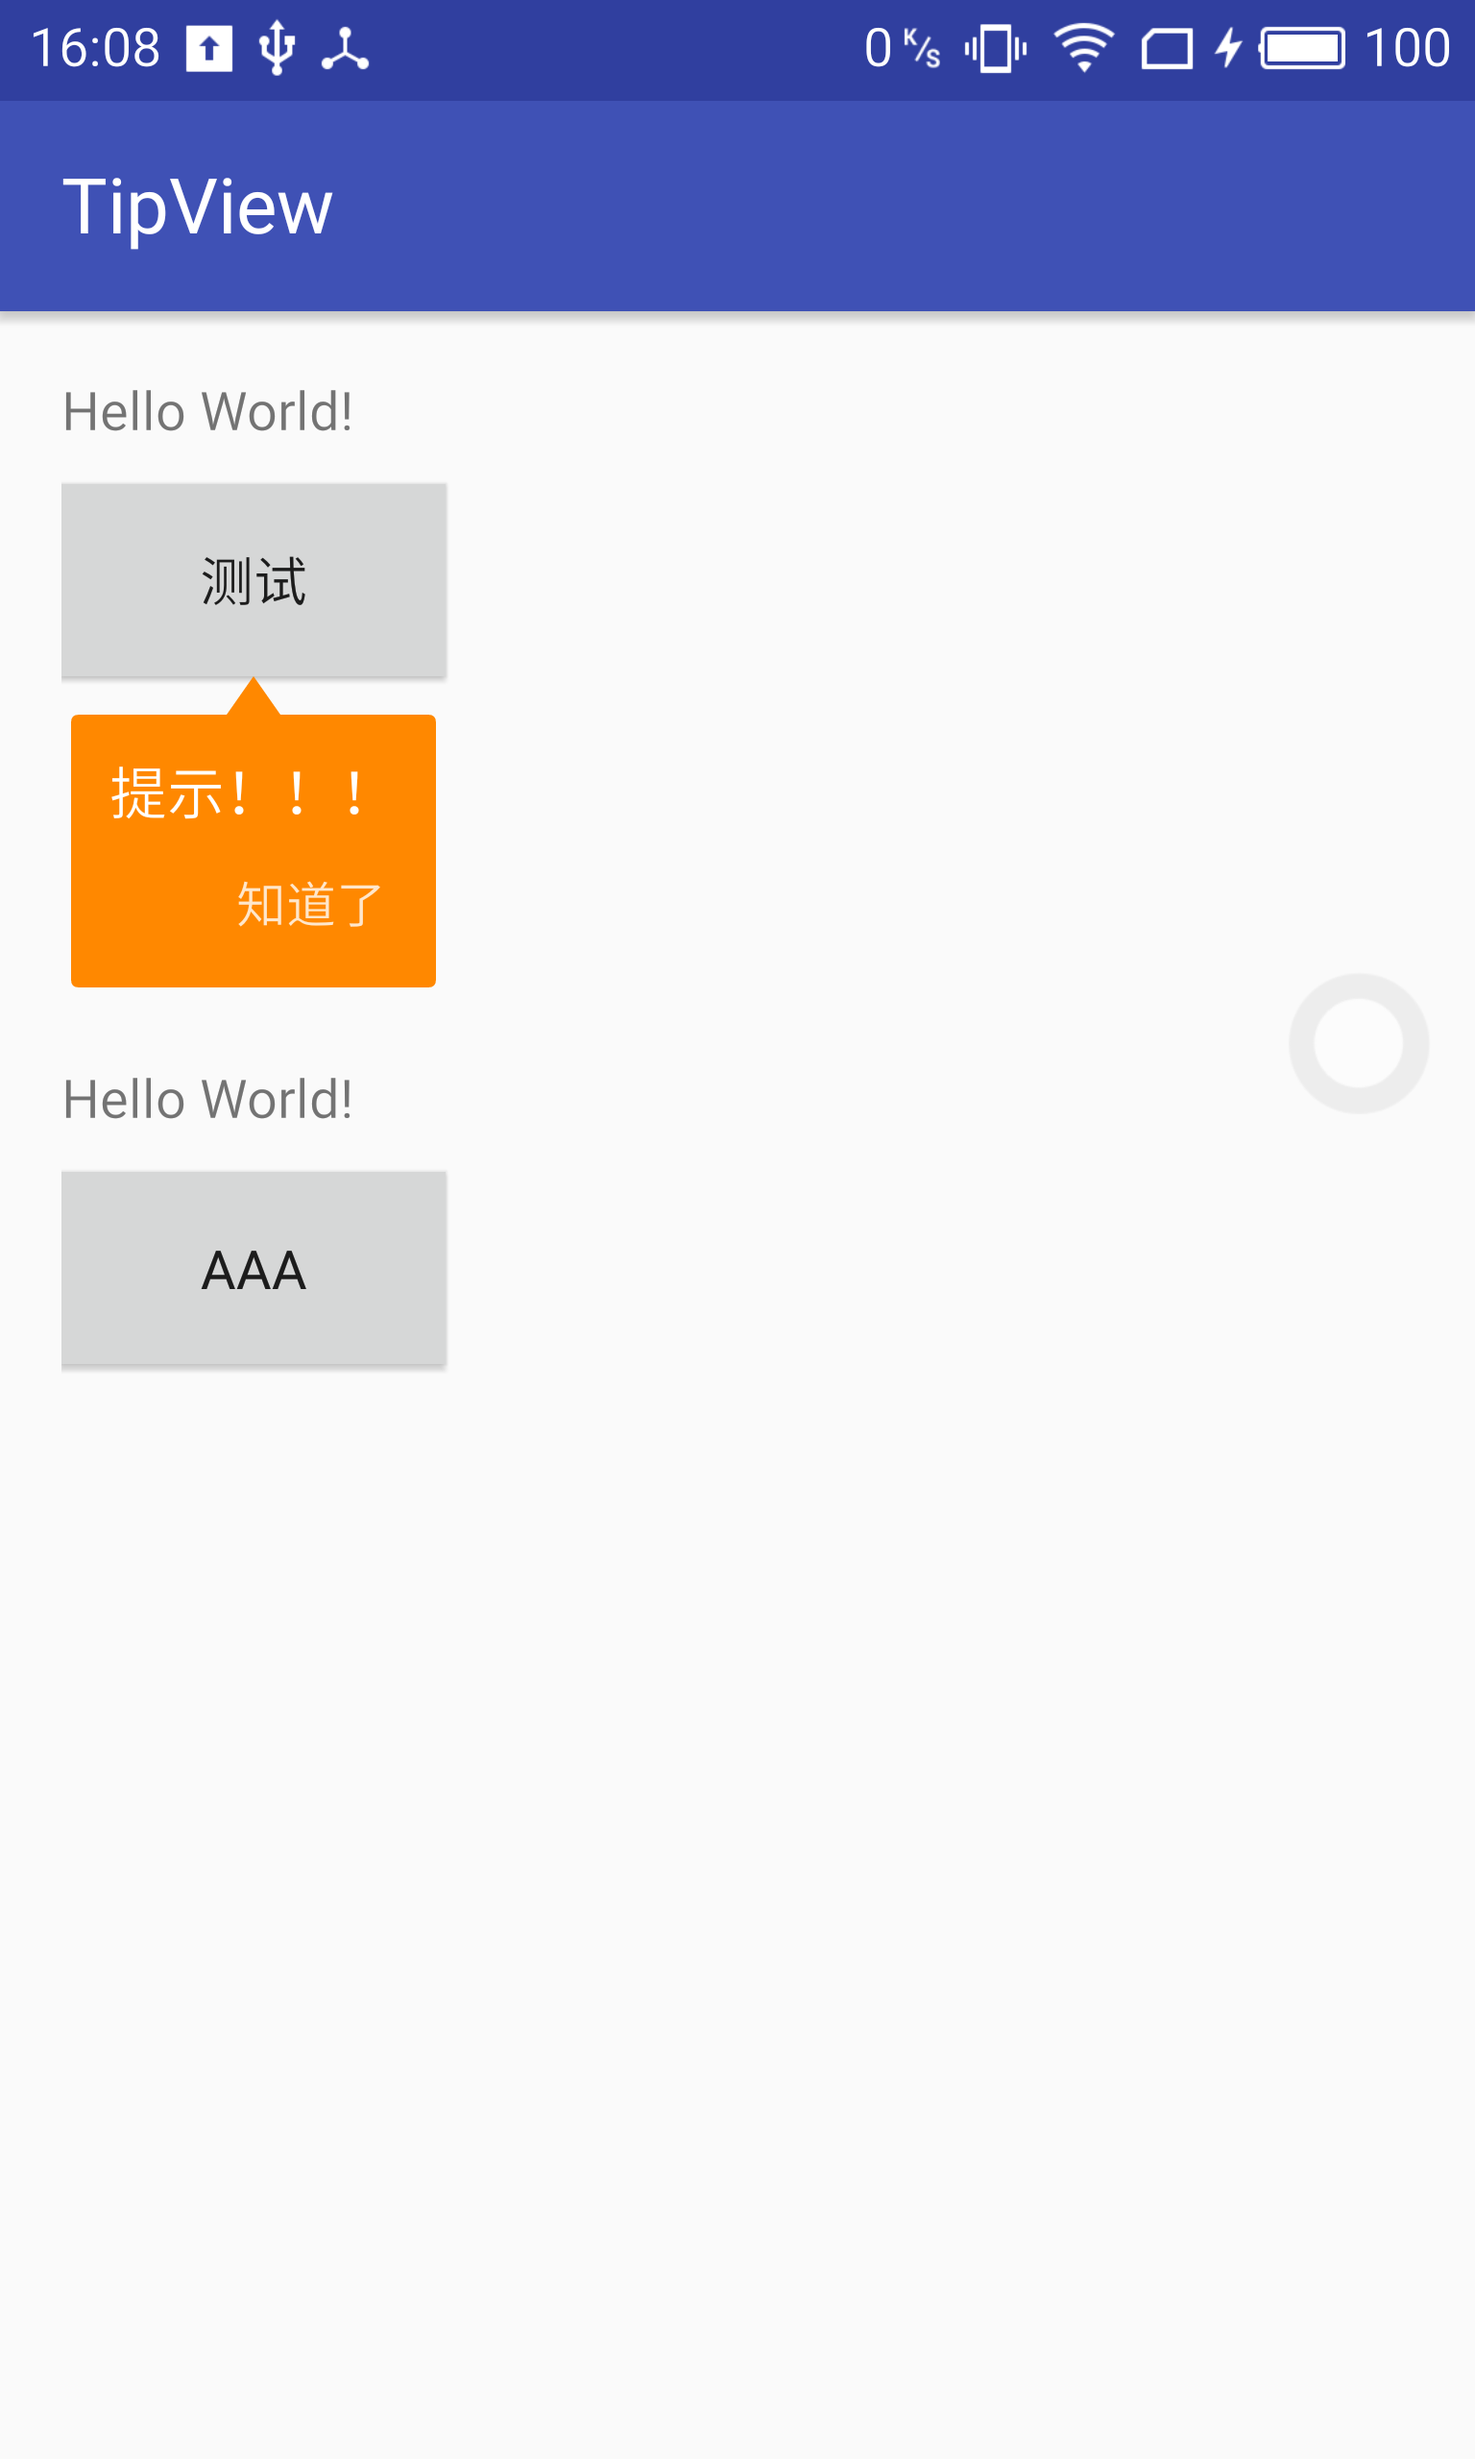
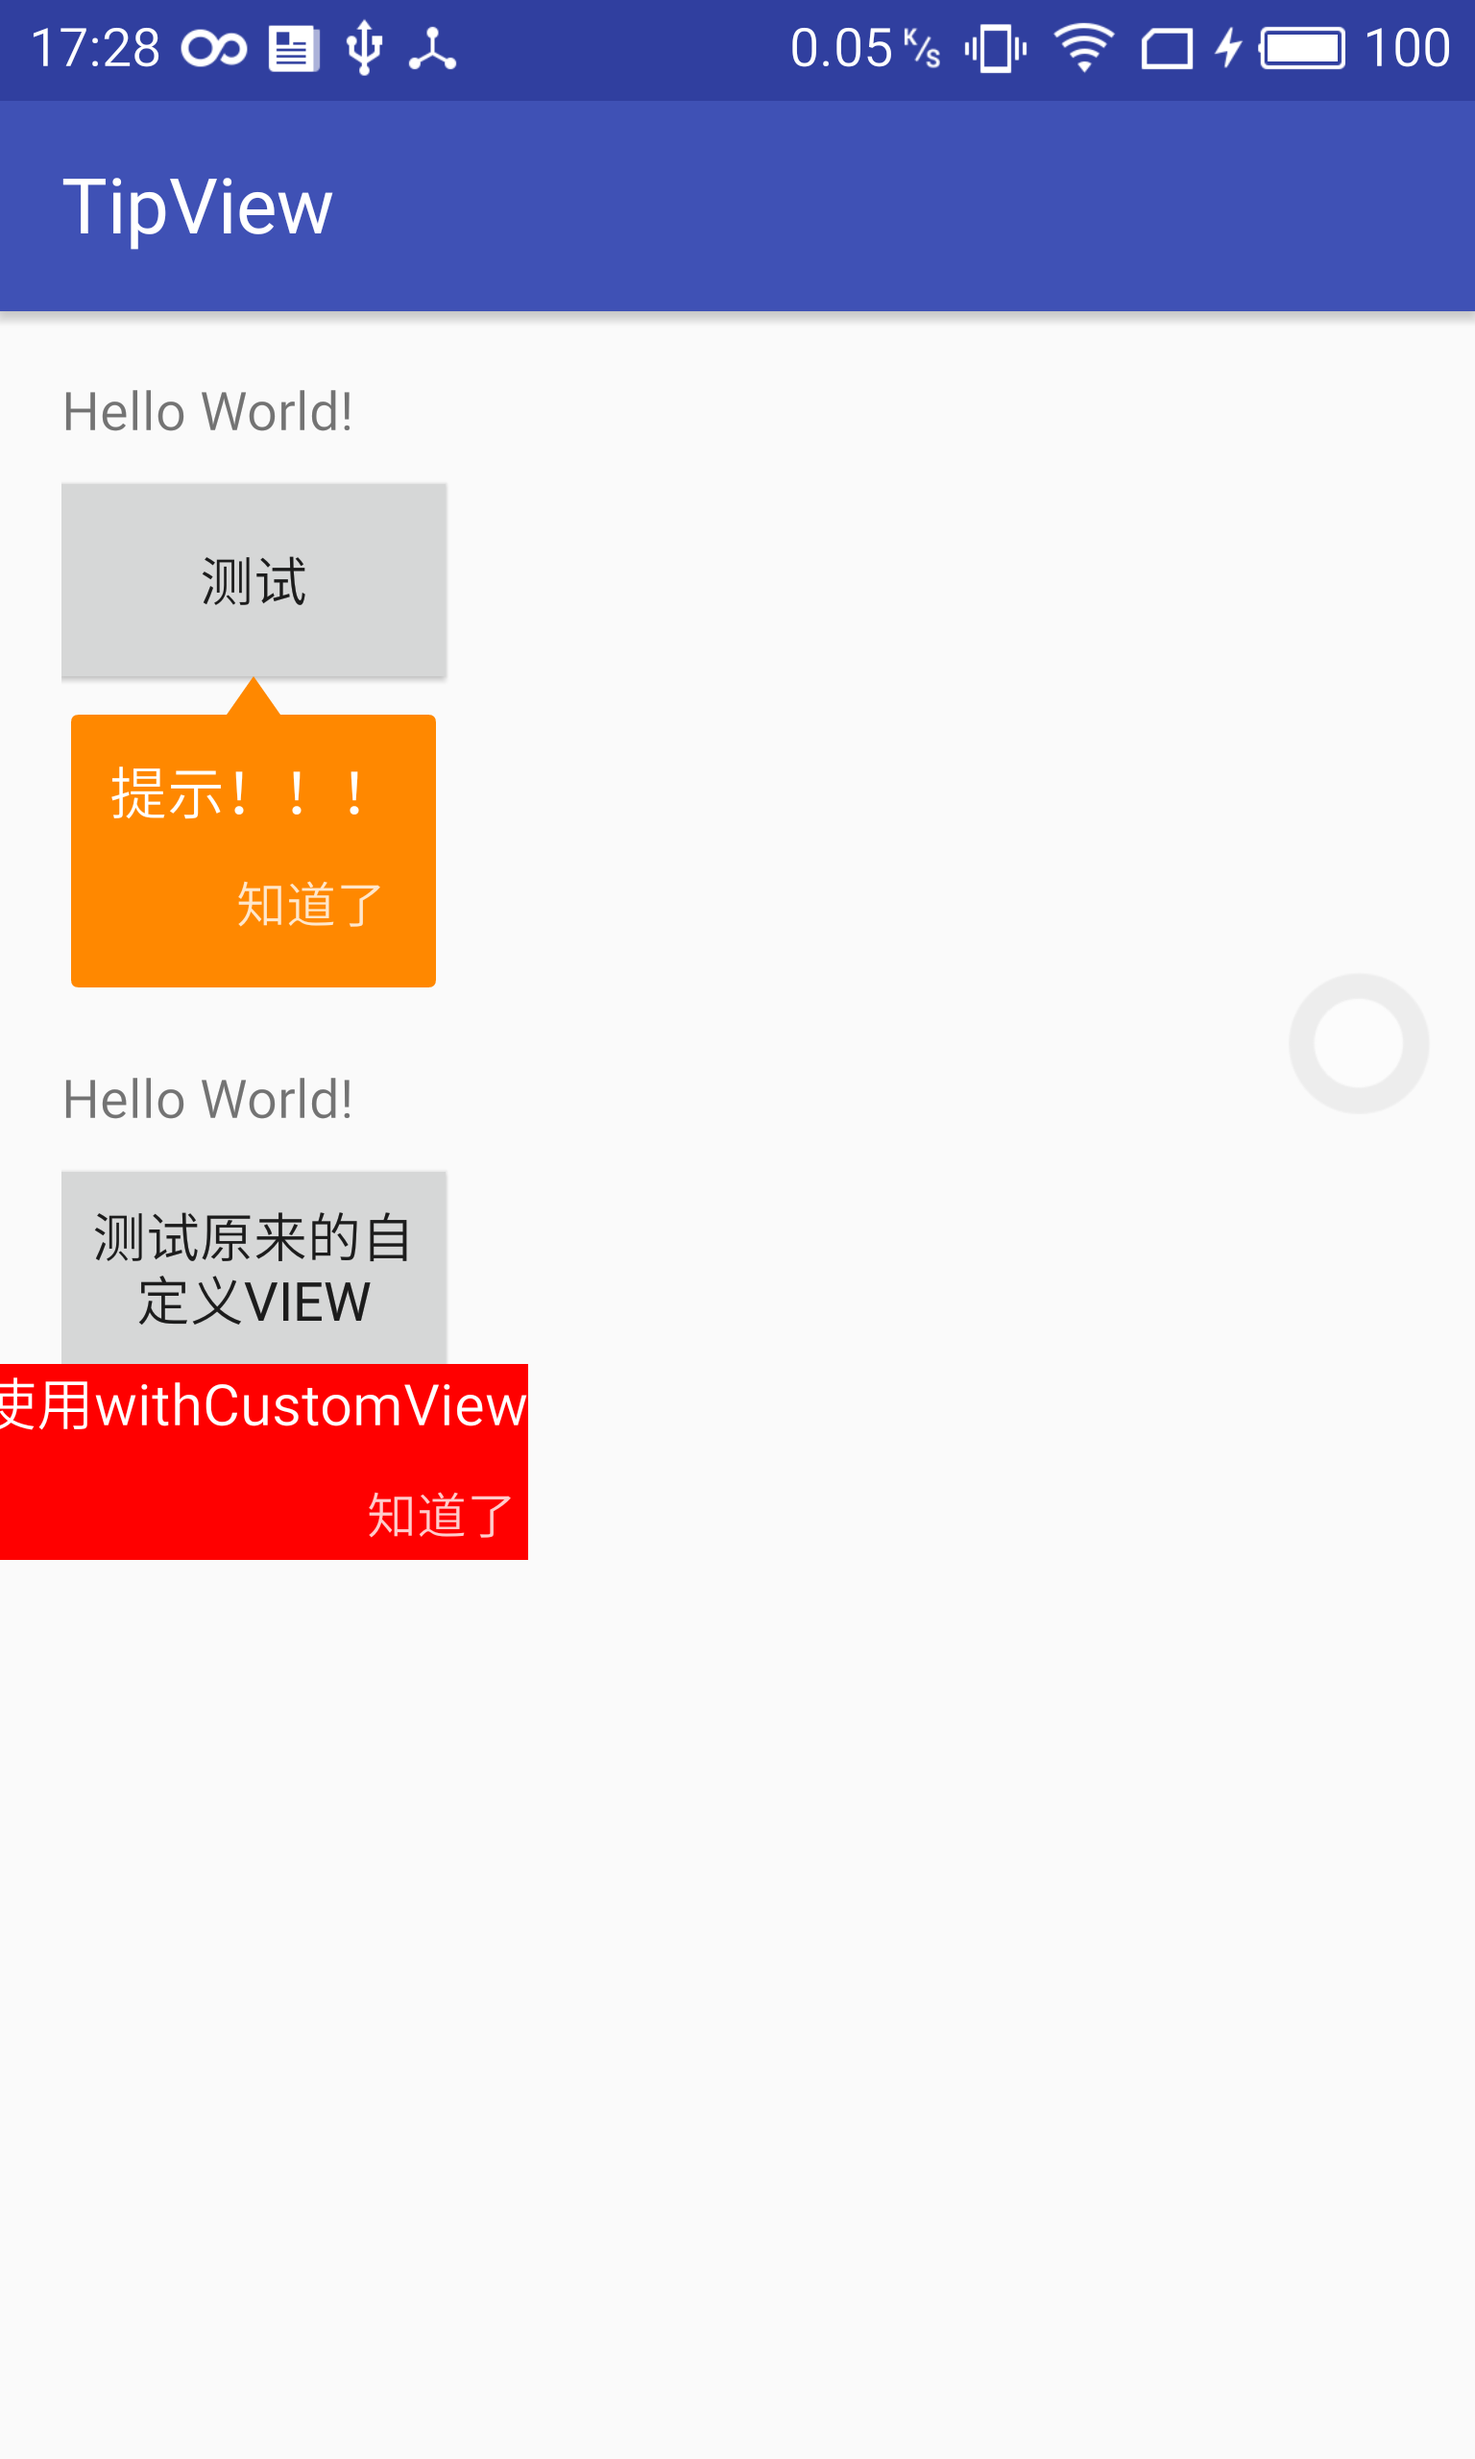
完善demo

diff --git a/app/src/main/java/com/android/tipview/MainActivity.java b/app/src/main/java/com/android/tipview/MainActivity.java
@@ -17,56 +17,76 @@ public class MainActivity extends AppCompatActivity {
     private TextView mTextView;
     private Context mContext;
     private Tooltip.TooltipView mTooltipView;
+
     @Override
     protected void onCreate(Bundle savedInstanceState) {
         super.onCreate(savedInstanceState);
         setContentView(R.layout.activity_main);
 
-        mContext=this;
-        mButton=(Button)findViewById(R.id.button);
-        mButton1=(Button)findViewById(R.id.button11);
-        mTextView=(TextView)findViewById(R.id.text);
+        mContext = this;
+        mButton = (Button) findViewById(R.id.button);
+        mButton1 = (Button) findViewById(R.id.button11);
+        mTextView = (TextView) findViewById(R.id.text);
 
         mButton.setOnClickListener(new View.OnClickListener() {
             @Override
             public void onClick(View view) {
-                            mTooltipView= Tooltip.make(
-                                    mContext,
-                    new Tooltip.Builder()
-                            .anchor(mButton, Tooltip.Gravity.BOTTOM)
-                            .fitToScreen(true)
-                            .text("提示！！！")
-                            .withArrow(true)
-                            .closePolicy(new Tooltip.ClosePolicy().insidePolicy(false,false).outsidePolicy(false,false), 0)
-                            .maxWidth(getScreenWidth()/2)
-                            .setDismiss(new View.OnClickListener() {
-                                @Override
-                                public void onClick(View view) {
-                                    mTooltipView.remove();
-                                }
-                            })
-                            .withOverlay(false)
-                            .build()
-            );
-            mTooltipView.show();
+                mTooltipView = Tooltip.make(
+                        mContext,
+                        new Tooltip.Builder()
+                                .anchor(mButton, Tooltip.Gravity.BOTTOM)
+                                .fitToScreen(true)
+                                .text("提示！！！")
+                                .withArrow(true)
+                                .closePolicy(new Tooltip.ClosePolicy().insidePolicy(false, false).outsidePolicy(false, false), 0)
+                                .maxWidth(getScreenWidth() / 2)
+                                .setDismiss(new View.OnClickListener() {
+                                    @Override
+                                    public void onClick(View view) {
+                                        mTooltipView.remove();
+                                    }
+                                })
+                                .withOverlay(false)
+                                .build()
+                );
+                mTooltipView.show();
             }
         });
 
         mTextView.setOnClickListener(new View.OnClickListener() {
             @Override
             public void onClick(View view) {
-                Toast.makeText(mContext,"ssssss",Toast.LENGTH_SHORT).show();
+                Toast.makeText(mContext, "ssssss", Toast.LENGTH_SHORT).show();
             }
         });
 
         mButton1.setOnClickListener(new View.OnClickListener() {
             @Override
             public void onClick(View view) {
-                Toast.makeText(mContext,"点击按钮",Toast.LENGTH_SHORT).show();
+                Tooltip.make(
+                        mContext,
+                        new Tooltip.Builder()
+                                .anchor(mButton1, Tooltip.Gravity.BOTTOM)
+                                .fitToScreen(true)
+                                .withCustomView(R.layout.custom_view)
+                                .text("使用withCustomView")
+                                .withArrow(true)
+                                .closePolicy(new Tooltip.ClosePolicy().insidePolicy(false, false).outsidePolicy(false, false), 0)
+                                .maxWidth(getScreenWidth() / 2)
+                                .setDismiss(new View.OnClickListener() {
+                                    @Override
+                                    public void onClick(View view) {
+                                        mTooltipView.remove();
+                                    }
+                                })
+                                .withOverlay(false)
+                                .build()
+                ).show();
             }
         });
     }
-    public  int getScreenWidth(){
+
+    public int getScreenWidth() {
         return this.getResources().getDisplayMetrics().widthPixels;
     }
 }
